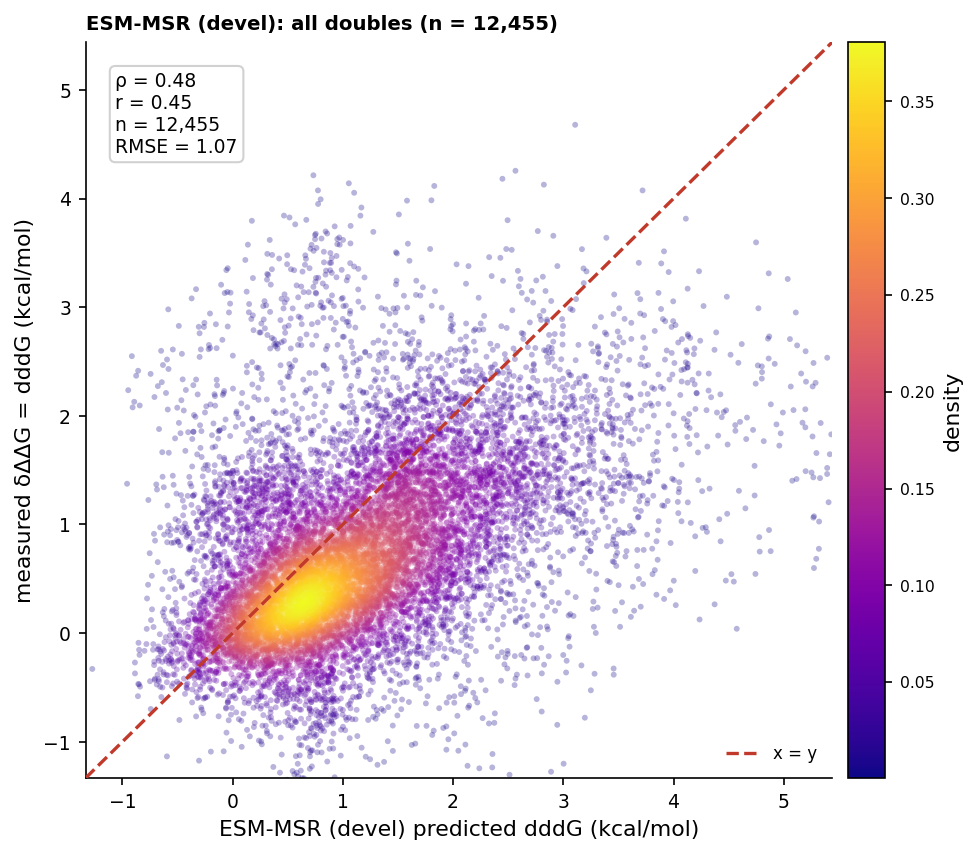
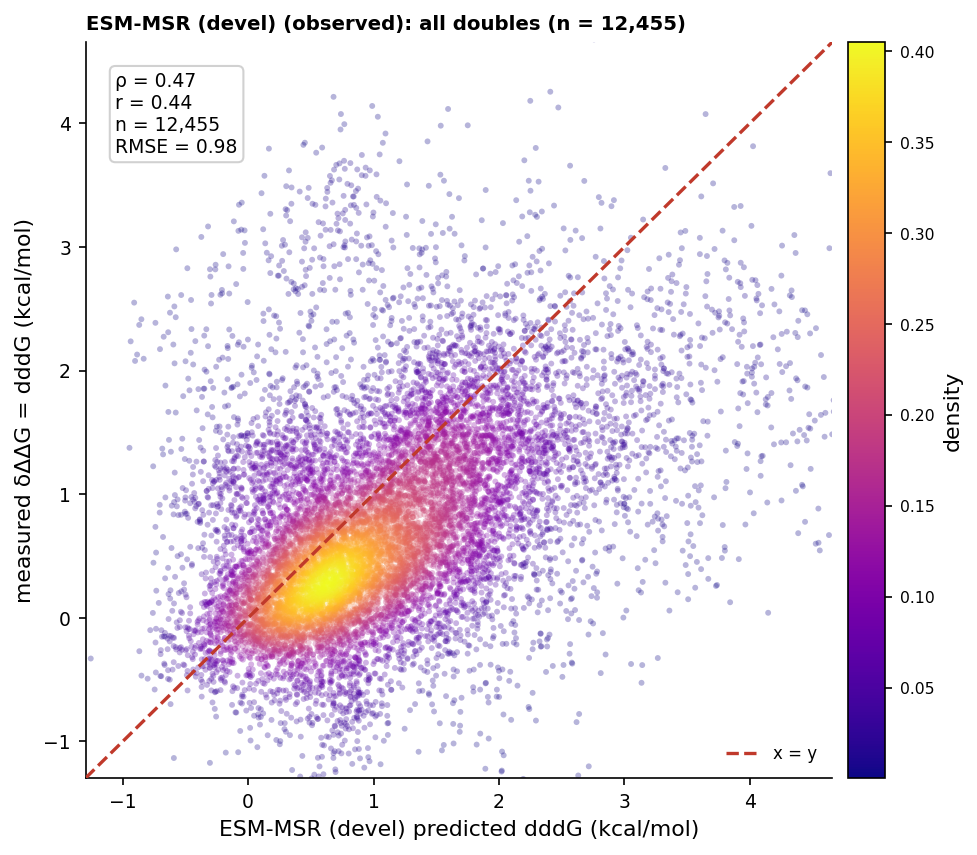
analysis/: ESM-MSR devel epistasis on the observed scale (naive definition), dG_additive > 1 scatters with the latent prediction
- msr_analysis.link: link_fn, singles_of_doubles, observed_epistasis = obs(MT(AB)) - [obs(WT(A)) + obs(WT(B))] through each devel seed's link and library floors, the epistasis suite's naive
  definition (per-seed Spearman against the measurement 0.471 / 0.447 / 0.475, the suite's own values); for the baseline, which has no link, it equals MT - WT (max difference 5e-7).
- 12: the raw heat-map panels of ESM-MSR devel are on that scale (the saturation-corrected ones stay on latents, as the suite's beyond-global levels).
- 13: a third version, dG_additive > 1 (3,907 doubles), with the latent prediction for ESM-MSR devel; latent_vs_observed.csv confirms they agree there (Pearson 0.998, mean |diff| 0.02).

diff --git a/analysis/13_dddG_correlation_scatters.py b/analysis/13_dddG_correlation_scatters.py
@@ -1,14 +1,18 @@
 #!/usr/bin/env python
 """Predicted against measured epistasis (dddG) of every model on the capped Tsuboyama test doubles with both singles measured (12,455), density scatters without marginals and with the
-line x = y, in two versions:
+line x = y, in three versions:
 
   results/13_dddG_scatters/all_dG_additive/<model>.png        every double
   results/13_dddG_scatters/dG_additive_positive/<model>.png   only doubles whose additive dG = dG_wt + ddG_A + ddG_B (the measured singles) is above 0, i.e. not already lost to the
                                                               assay floor if the singles add: where the measured dddG is not the floor's
+  results/13_dddG_scatters/dG_additive_gt1/<model>.png        only those above 1 kcal/mol, where the link is the identity for practical purposes: ESM-MSR devel is drawn from its
+                                                              latent prediction (the other two versions use the observed one)
 
 The predicted epistasis of a model is the one of the pair heat maps (``12_pair_epistasis_heatmaps.py``): ESM-MSR MT - WT, ME stage 2 / ThermoMPNN-D / SPURS multi minus their singles
 (seed means), ESM3-small-open independent mutant pass minus masked-marginal WT pass, the public models minus their sum of singles; Rosetta is divided by 2.94 (REU to kcal/mol, see
-``rosetta_unit_check.csv``).  ``stats.csv`` has n, Spearman rho, Pearson r and the RMSE of every panel.
+``rosetta_unit_check.csv``).  The measurement is on the observed scale (dddG = ddG_AB - ddG_A - ddG_B), so ESM-MSR devel, whose checkpoints write latent ddG, is put on it the way the
+epistasis suite's naive epistasis does: obs(MT(AB)) - [obs(WT(A)) + obs(WT(B))] through each seed's link (the baseline triplicate has no link: MT - WT).  ``stats.csv`` has n, Spearman
+rho, Pearson r and the RMSE of every panel; ``latent_vs_observed.csv`` compares the two predictions of ESM-MSR devel in each subset.
 """
 import importlib
 import re
@@ -24,12 +28,12 @@ import matplotlib.pyplot as plt  # noqa: E402
 
 from msr_analysis import style  # noqa: E402
 from msr_analysis.common import out_dir  # noqa: E402
-from msr_analysis.data import load_frame  # noqa: E402
 
 h12 = importlib.import_module('12_pair_epistasis_heatmaps')      # build(), MODELS, UNIT
 OUT = out_dir('13_dddG_scatters')
 Y_LABEL = 'measured δΔΔG = dddG (kcal/mol)'
-VERSIONS = {'all_dG_additive': 'all doubles', 'dG_additive_positive': 'doubles with ΔG additive > 0'}
+VERSIONS = {'all_dG_additive': ('all doubles', None), 'dG_additive_positive': ('doubles with ΔG additive > 0', 0.0), 'dG_additive_gt1': ('doubles with ΔG additive > 1', 1.0)}
+LINK_MODEL = 'ESM-MSR (devel)'
 
 
 def slug(label):
@@ -59,21 +63,36 @@ def main():
     rosetta_unit_check(fr, fit).to_csv(OUT / 'rosetta_unit_check.csv', index=False, float_format='%.4f')
     rows = []
     for label, v in model.items():
-        x = v['raw']
         star = '*' if label.endswith('*') else ''
-        for ver, desc in VERSIONS.items():
-            ok = fit & np.isfinite(x) & np.isfinite(y) & ((dG_add > 0) if ver == 'dG_additive_positive' else True)
+        for ver, (desc, cut) in VERSIONS.items():
+            latent_here = label == LINK_MODEL and ver == 'dG_additive_gt1'
+            x = v['latent'] if latent_here else v['raw']
+            ok = fit & np.isfinite(x) & np.isfinite(y) & (True if cut is None else (dG_add > cut))
+            note = ' (latent)' if latent_here else (' (observed)' if label == LINK_MODEL else '')
             fig = style.density_scatter_plain(x[ok], y[ok], f'{label.rstrip("*")}{star} predicted dddG (kcal/mol)', Y_LABEL, ref='xy', rmse=True,
-                                              title=f'{label}: {desc} (n = {int(ok.sum()):,})')
+                                              title=f'{label}{note}: {desc} (n = {int(ok.sum()):,})')
             folder = OUT / ver
             folder.mkdir(parents=True, exist_ok=True)
             fig.savefig(folder / f'{slug(label)}.png', dpi=150)
             plt.close(fig)
-            rows.append(dict(model=label, version=ver, n=int(ok.sum()), spearman=spearmanr(x[ok], y[ok])[0], pearson=pearsonr(x[ok], y[ok])[0], rmse=float(np.sqrt(np.mean((x[ok] - y[ok]) ** 2)))))
+            rows.append(dict(model=label, version=ver, prediction='latent' if latent_here else ('observed' if label == LINK_MODEL else 'as is'), n=int(ok.sum()),
+                             spearman=spearmanr(x[ok], y[ok])[0], pearson=pearsonr(x[ok], y[ok])[0], rmse=float(np.sqrt(np.mean((x[ok] - y[ok]) ** 2)))))
     T = pd.DataFrame(rows)
     T.to_csv(OUT / 'stats.csv', index=False, float_format='%.4f')
-    pd.set_option('display.width', 200)
+    # ESM-MSR devel: observed against latent prediction, in every subset
+    v = model[LINK_MODEL]
+    cmp_rows = []
+    for ver, (desc, cut) in VERSIONS.items():
+        ok = fit & np.isfinite(v['raw']) & np.isfinite(v['latent']) & np.isfinite(y) & (True if cut is None else (dG_add > cut))
+        o, l = v['raw'][ok], v['latent'][ok]
+        cmp_rows.append(dict(version=ver, n=int(ok.sum()), pearson_observed_vs_latent=pearsonr(o, l)[0], spearman_observed_vs_latent=spearmanr(o, l)[0], mean_abs_diff=float(np.mean(np.abs(o - l))),
+                             max_abs_diff=float(np.max(np.abs(o - l))), rho_observed=spearmanr(o, y[ok])[0], rho_latent=spearmanr(l, y[ok])[0],
+                             rmse_observed=float(np.sqrt(np.mean((o - y[ok]) ** 2))), rmse_latent=float(np.sqrt(np.mean((l - y[ok]) ** 2)))))
+    C = pd.DataFrame(cmp_rows)
+    C.to_csv(OUT / 'latent_vs_observed.csv', index=False, float_format='%.4f')
+    pd.set_option('display.width', 220)
     print(T.pivot(index='model', columns='version', values=['spearman', 'rmse']).round(3).reindex([m[0] for m in h12.MODELS if m[0] in model]).to_string())
+    print(C.round(3).to_string())
     print(rosetta_unit_check(fr, fit).round(3).to_string())
 
 

diff --git a/analysis/12_pair_epistasis_heatmaps.py b/analysis/12_pair_epistasis_heatmaps.py
@@ -16,9 +16,11 @@ Colour: blue = positive epistasis, red = negative, × = no usable value.  One sc
 |measured value| over the usable cells of the 15 pairs: raw and saturation-corrected each have their own, printed on the colour bar); a model's values beyond it are clipped to the end
 colour.  Each panel title carries the Spearman rho of the model against the measured cells of the pair.
 Layout: ``results/12_pair_heatmaps/<raw|saturation_corrected>/<domain>/<wt><pos>_<wt><pos>.png``, ``pairs.csv`` (the pairs) and ``agreement.csv`` (rho of each model, per pair and mode).
-ESM-MSR's epistasis is always the MT head minus the WT head (latent, the checkpoint's two passes; the baseline files' epi_pred column is the same number).
+ESM-MSR's epistasis is the MT head against the WT head: for the baseline triplicate, which has no link, MT(AB) - WT(AB); for the devel checkpoints (which write latent ddG) the raw panels are on the observed scale like the
+measurement, obs(MT(AB)) - [obs(WT(A)) + obs(WT(B))] through each seed's link and library floors (``msr_analysis.link.observed_epistasis``, the epistasis suite's naive definition), the saturation-corrected ones on latents as the suite's beyond-global levels.
 Rosetta is divided by 2.94 (REU to kcal/mol).  Multi-seed models are averaged over seeds first; ESM3ΔG is not shown (its fine-tune overlaps the test proteins), the Megascale-trained ESMtherm and IFUM carry an asterisk.
 """
+import json
 import re
 import sys
 from pathlib import Path
@@ -32,7 +34,9 @@ import matplotlib.pyplot as plt  # noqa: E402
 from mpl_toolkits.axes_grid1 import make_axes_locatable  # noqa: E402
 
 from msr_analysis.common import epi_rows, out_dir  # noqa: E402
+from msr_analysis.registry import REFERENCE  # noqa: E402
 from msr_analysis.data import add_esm3_masked, load_frame  # noqa: E402
+from msr_analysis.link import observed_epistasis  # noqa: E402
 
 DS = 'tsuboyama_capped_test'
 OUT = out_dir('12_pair_heatmaps')
@@ -109,6 +113,7 @@ def build():
     add_esm3_masked(fr, DS)
     sp, p = fr.spine, fr.preds
     n = len(sp)
+    y_floor = json.load(open(REFERENCE / 'y_floor.json'))
     fit = epi_rows(fr)
     c = sp['dG_wt'].to_numpy(float)
     meas = {'raw': sp['dddG_ML'].to_numpy(float)}
@@ -123,7 +128,9 @@ def build():
         u = UNIT.get(label, 1.0)
         e = u * (mean_seeds(p[build_[1]]) - (mean_seeds(p[build_[2]]) if build_[0] == 'diff' else 0.0))
         x_add = c + u * mean_seeds(p[addk])
-        model[label] = dict(raw=e, saturation_corrected=beyond_global(e, x_add, fit), single=u * mean_seeds(p[sk]))
+        model[label] = dict(raw=e, saturation_corrected=beyond_global(e, x_add, fit), single=u * mean_seeds(p[sk]), latent=e)
+        if label == 'ESM-MSR (devel)':       # the raw panels are on the observed scale, like the measurement: obs(MT(AB)) - [obs(WT(A)) + obs(WT(B))] through each seed's link (the suite's naive definition)
+            model[label]['raw'] = np.nanmean([observed_epistasis(sp, p['msrdev:wt'][s], p['msrdev:mt'][s], s + 1, y_floor) for s in range(3)], axis=0)
     mut = sp['mut'].to_numpy(dtype=object)
     nm = sp['n_mut'].to_numpy()
     d = pd.DataFrame({'i': np.flatnonzero(nm == 2)})

diff --git a/analysis/msr_analysis/link.py b/analysis/msr_analysis/link.py
@@ -45,3 +45,47 @@ def observed(latent, dg_wt, seed):
     p = load_params()[str(seed)]
     f = float(np.clip(p['global_floor'], p['floor_min'], p['floor_max']))
     return h(dg_wt + np.asarray(latent, float), p['tau'], f) - dg_wt
+
+
+def link_fn(seed):
+    """The checkpoint's observed-scale link of devel seed ``seed`` as a numpy function ``link(dG, y_floor) -> dG_obs`` on absolute dG, as ``esm_msr.link.numpy_link_from_state_dict``
+    builds it: ``h(z) = f + tau softplus((z - f) / tau)`` with the knee ``f`` the item's library floor clipped into [floor_min, floor_max] (global_floor where it has none)."""
+    p = load_params()[str(seed)]
+    lo = p['floor_min']
+    hi = max(p['floor_max'], lo + 1e-3)
+
+    def link(z, y_floor=None):
+        z = np.asarray(z, float)
+        if y_floor is None:
+            f = np.full(z.shape, p['global_floor'])
+        else:
+            yf = np.asarray(y_floor, float)
+            f = np.where(np.isfinite(yf), np.clip(yf, lo, hi), p['global_floor'])
+        return h(z, p['tau'], f)
+    return link
+
+
+def singles_of_doubles(spine):
+    """(ia, ib): for every row of ``spine`` that is a double, the row index of each of its two singles of the same library (-1 where a single is not in the table or the row is not a double)."""
+    code, mut, nm = spine['code'].astype(str).to_numpy(), spine['mut'].to_numpy(dtype=object), spine['n_mut'].to_numpy()
+    where = {(c, m): i for i, (c, m, n) in enumerate(zip(code, mut, nm)) if n == 1}
+    ia, ib = np.full(len(spine), -1), np.full(len(spine), -1)
+    for i in np.flatnonzero(nm == 2):
+        a, b = str(mut[i]).split(':')
+        ia[i], ib[i] = where.get((code[i], a), -1), where.get((code[i], b), -1)
+    return ia, ib
+
+
+def observed_epistasis(spine, wt, mt, seed, y_floor):
+    """The predicted epistasis of a devel checkpoint on the observed (assay) scale, as ``esm_msr.epi_metrics`` defines the naive one: the observed double minus the observed singles,
+    ``obs(MT(AB)) - [obs(WT(A)) + obs(WT(B))]`` with obs(L) = link(dG_wt + L, floor) - dG_wt, the same form as the measured dddG = ddG_AB - ddG_A - ddG_B.  NaN where a single is missing."""
+    link = link_fn(seed)
+    c = spine['dG_wt'].to_numpy(float)
+    fl = np.array([float(y_floor.get(k, np.nan)) for k in spine['code'].astype(str)])
+    obs = lambda lat: link(c + lat, fl) - c
+    ia, ib = singles_of_doubles(spine)
+    om, ow = obs(np.asarray(mt, float)), obs(np.asarray(wt, float))
+    out = np.full(len(spine), np.nan)
+    ok = (ia >= 0) & (ib >= 0)
+    out[ok] = om[ok] - (ow[ia[ok]] + ow[ib[ok]])
+    return out

diff --git a/analysis/README.md b/analysis/README.md
@@ -104,14 +104,14 @@ results/12_pair_heatmaps/pairs.csv, agreement.csv                              t
 
 *Saturation-corrected* is the beyond-global residual of the epistasis suite (`esm_msr/epi_metrics.py`, BENCHMARKS table 2.2): each side minus its mean given its own additive expectation, E[dddG | x] with x = dG_wt + ddG_A + ddG_B for the
 measurement and x' = dG_wt + the model's own additive prediction of the double for a model, the 25-quantile-bin smoother fitted on all 12,455 test doubles. What it removes is the assay floor and any diminishing returns; what is left is
-pair, line and cell epistasis. Blue is positive epistasis, red negative, a grey × a cell with no usable value (the wild-type residue of each position is a row and a column of ×). One colour scale for every panel of every figure of a mode, symmetric about zero: ±3.19 kcal/mol raw and ±1.38 saturation-corrected (98th percentile of |measured| over the usable cells of the 15 pairs); a model's values beyond it are clipped, and each panel title carries the panel's ρ. Rosetta is divided by 2.94 (REU to kcal/mol): that takes its RMSE against the measured dddG from 3.08 to 1.15 (ddG: singles 6.94 to 1.95, doubles 9.79 to 2.45); the best single scale would be 1/6.0 (RMSE 0.97), so the physical conversion is not the optimum, but it puts Rosetta on the other models' scale. ESM-MSR's epistasis is always the MT head minus the WT head. Mean over the 15 pairs of the per-pair ρ
+pair, line and cell epistasis. Blue is positive epistasis, red negative, a grey × a cell with no usable value (the wild-type residue of each position is a row and a column of ×). One colour scale for every panel of every figure of a mode, symmetric about zero: ±3.19 kcal/mol raw and ±1.38 saturation-corrected (98th percentile of |measured| over the usable cells of the 15 pairs); a model's values beyond it are clipped, and each panel title carries the panel's ρ. Rosetta is divided by 2.94 (REU to kcal/mol): that takes its RMSE against the measured dddG from 3.08 to 1.15 (ddG: singles 6.94 to 1.95, doubles 9.79 to 2.45); the best single scale would be 1/6.0 (RMSE 0.97), so the physical conversion is not the optimum, but it puts Rosetta on the other models' scale. ESM-MSR's epistasis is the MT head against the WT head: the baseline triplicate has no link, so it is MT(AB) − WT(AB); for devel (checkpoints that write latent ddG) the raw panels are on the observed scale like the measurement, obs(MT(AB)) − [obs(WT(A)) + obs(WT(B))] through each seed's link and library floors (the epistasis suite's naive definition, `msr_analysis.link.observed_epistasis`), the saturation-corrected ones on latents as the suite's beyond-global levels. Mean over the 15 pairs of the per-pair ρ
 (raw / corrected): ESM-MSR 0.53 / 0.35, ESM-MSR devel 0.53 / 0.37, ME stage 2 0.41 / 0.23, SPURS multi 0.40 / 0.24, ESM3-small-open 0.38 / 0.16, ThermoMPNN-D 0.26 / 0.18, Rosetta 0.17 / 0.09, GeoDDG-3D 0.07 / 0.04;
 ESMtherm\* 0.34 / 0.41 and IFUM\* 0.13 to 0.15 / 0.19 to 0.21 are the only models whose ρ rises once saturation is removed (they are trained on these domains).
 
 ## dddG correlation scatters (`13_dddG_correlation_scatters.py`, `results/13_dddG_scatters/`)
 
-Predicted against measured epistasis of every model of the heat maps (the same 13, Rosetta in kcal/mol), density scatters without marginals and with the line x = y, in two versions under their own folders:
-`all_dG_additive/<model>.png` (all 12,455 test doubles) and `dG_additive_positive/<model>.png` (the 7,405 whose additive dG is above 0, not already lost to the assay floor if the singles add); `stats.csv` has n, ρ, r and
+Predicted against measured epistasis of every model of the heat maps (the same 13, Rosetta in kcal/mol), density scatters without marginals and with the line x = y, in three versions under their own folders:
+`all_dG_additive/<model>.png` (all 12,455 test doubles), `dG_additive_positive/<model>.png` (the 7,405 whose additive dG is above 0, not already lost to the assay floor if the singles add) and `dG_additive_gt1/<model>.png` (the 3,907 above 1 kcal/mol). The measurement is on the observed scale, so ESM-MSR devel is drawn the way the suite defines its naive epistasis (observed double minus the observed singles, through the link; the baseline triplicate has no link) in the first two versions and from its latent prediction in the third; `latent_vs_observed.csv` confirms that they agree there (Pearson 0.998, mean |difference| 0.02 kcal/mol, ρ against the measurement 0.441 observed and 0.439 latent, RMSE 0.82 and 0.84; over all doubles the mean difference is 0.09 and the RMSE 0.99 against 1.07); `stats.csv` has n, ρ, r and
 the RMSE of each panel and `rosetta_unit_check.csv` the unit check. Restricting to dG_additive > 0 separates the models that rank epistasis from those that only follow the floor: ρ (all → positive) is 0.46 → 0.43 for
 ESM-MSR (devel 0.48 → 0.44), but 0.44 → 0.12 for ME stage 2, 0.34 → 0.08 for SPURS multi, 0.10 → −0.03 for ThermoMPNN-D and 0.50 → 0.27 for ESMtherm\*; ProteinMPNN holds (0.31 → 0.35), Rosetta 0.38 → 0.31.
 
